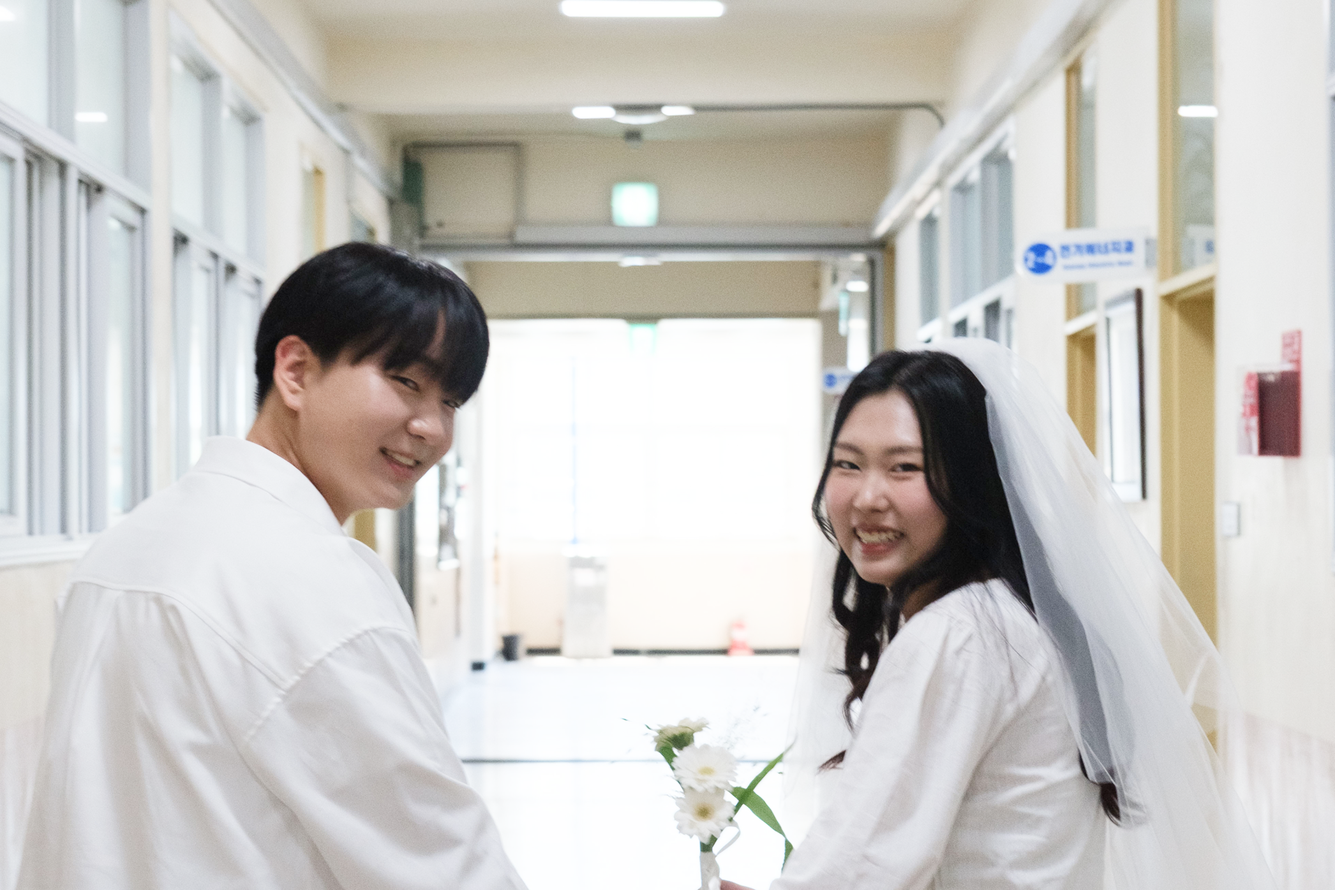
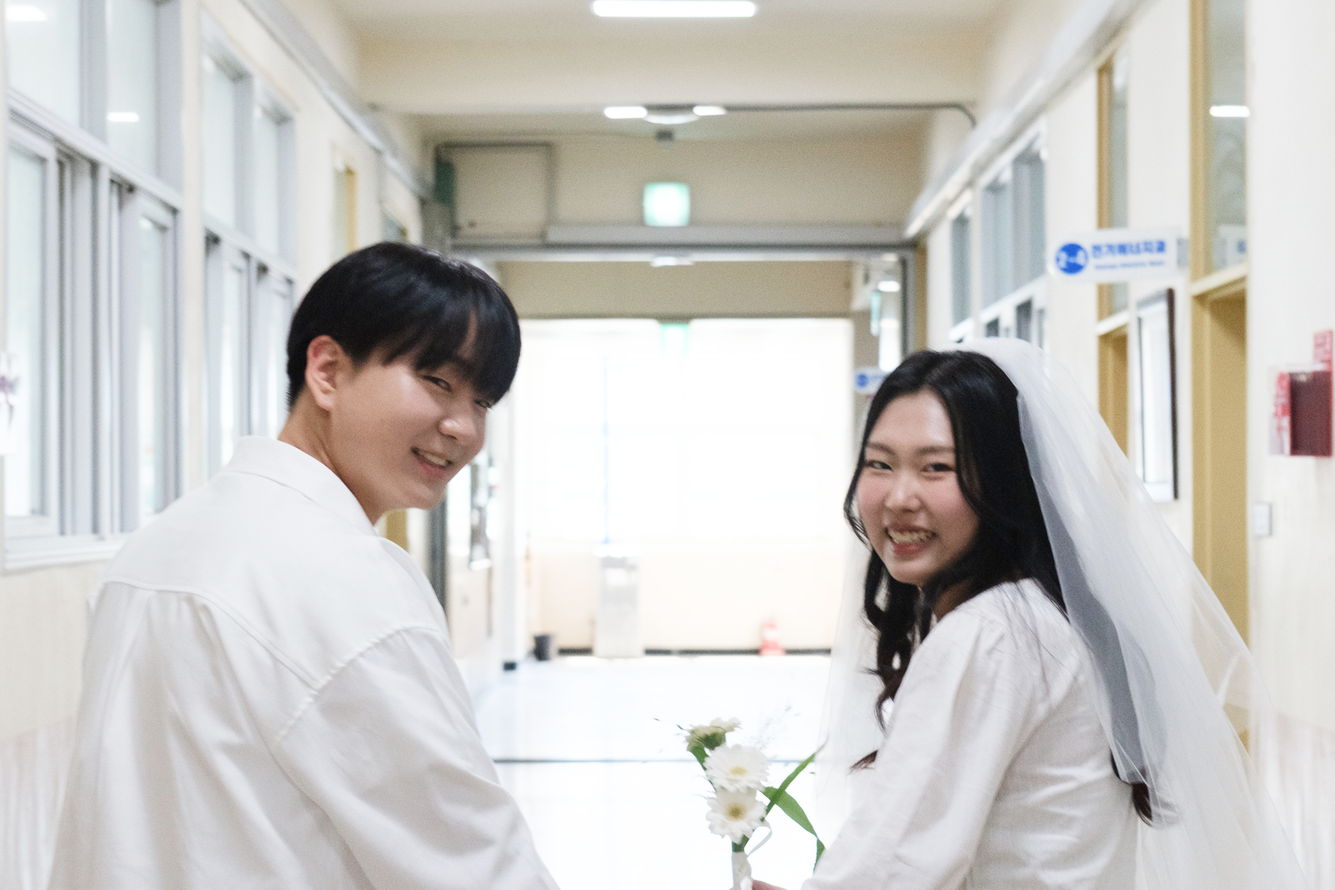
Updates

diff --git a/assets/index-D1y2Bn0O.css b/assets/index-D1y2Bn0O.css
@@ -1,0 +1,1 @@
+@font-face{font-family:TuesdayNight;src:url(/wedding/assets/TuesdayNight-BsQFEZVB.woff2)format("woff2")}@font-face{font-family:NewYork;src:url(/wedding/assets/NewYork-3l_rxtSI.woff2)format("woff2")}@font-face{font-family:Pretendard;src:url(https://cdn.jsdelivr.net/gh/projectnoonnu/pretendard@1.0/Pretendard-Thin.woff2)format("woff2");font-weight:100;font-display:swap}@font-face{font-family:Pretendard;src:url(https://cdn.jsdelivr.net/gh/projectnoonnu/pretendard@1.0/Pretendard-ExtraLight.woff2)format("woff2");font-weight:200;font-display:swap}@font-face{font-family:Pretendard;src:url(https://cdn.jsdelivr.net/gh/projectnoonnu/pretendard@1.0/Pretendard-Light.woff2)format("woff2");font-weight:300;font-display:swap}@font-face{font-family:Pretendard;src:url(https://cdn.jsdelivr.net/gh/projectnoonnu/pretendard@1.0/Pretendard-Regular.woff2)format("woff2");font-weight:400;font-display:swap}@font-face{font-family:Pretendard;src:url(https://cdn.jsdelivr.net/gh/projectnoonnu/pretendard@1.0/Pretendard-Medium.woff2)format("woff2");font-weight:500;font-display:swap}@font-face{font-family:Pretendard;src:url(https://cdn.jsdelivr.net/gh/projectnoonnu/pretendard@1.0/Pretendard-SemiBold.woff2)format("woff2");font-weight:600;font-display:swap}@font-face{font-family:Pretendard;src:url(https://cdn.jsdelivr.net/gh/projectnoonnu/pretendard@1.0/Pretendard-Bold.woff2)format("woff2");font-weight:700;font-display:swap}@font-face{font-family:Pretendard;src:url(https://cdn.jsdelivr.net/gh/projectnoonnu/pretendard@1.0/Pretendard-ExtraBold.woff2)format("woff2");font-weight:800;font-display:swap}@font-face{font-family:Pretendard;src:url(https://cdn.jsdelivr.net/gh/projectnoonnu/pretendard@1.0/Pretendard-Black.woff2)format("woff2");font-weight:900;font-display:swap}*{box-sizing:border-box;letter-spacing:-.4px;color:#333;margin:0;padding:0;font-family:Pretendard,sans-serif;font-size:16px;line-height:1.4;text-decoration:none;list-style:none}body{background-color:#fff;justify-content:center;display:flex}#root{background-color:#fbfbf9;max-width:520px;box-shadow:0 12px 40px #00000014}.content{margin-top:100px}section{background-color:#fbfbf9;flex-direction:column;justify-content:center;align-items:center;display:flex}section h2{color:#b0b0b0;margin-bottom:40px;font-size:12px;font-weight:500}.hero{height:var(--hero-height);background-position:50%;background-repeat:no-repeat;background-size:cover;position:relative;overflow:hidden}.scroll_box{background-position:bottom;background-repeat:no-repeat;background-size:100%;flex-direction:column;justify-content:center;align-items:center;width:100%;height:13%;display:flex;position:absolute;bottom:0;left:0}.scroll_box img{width:12px;height:auto}.scroll_box span{margin-top:6px;font-size:12px;font-weight:500}.scroll_indicator{flex-direction:column;align-items:center;gap:2px;animation:1.8s ease-in-out infinite scrollBounce;display:flex}@keyframes scrollBounce{0%,to{transform:translateY(0)}50%{transform:translateY(10px)}}.invitation_txt{aspect-ratio:402/481;background-position:top;background-repeat:no-repeat;background-size:100%;flex-direction:column;justify-content:center;align-items:center;gap:60px;width:100%;display:flex}.intro{text-align:center;flex-direction:column;gap:24px;display:flex}.intro p{font-weight:500;line-height:26px}.intro span{color:#8e8e8e}.name{align-items:center;gap:32px;display:flex}.name_item{flex-direction:column;justify-content:center;align-items:center;display:flex}.name_item p{font-weight:500}.name_item span{color:#8e8e8e}.name_item strong{font-size:18px;font-weight:700}.calendar{margin-top:92px}.calendar p{text-align:center}.calendar strong{font-size:18px}.calendar_wrap{color:#444;width:280px;margin:28px auto 0}.calendar_week,.calendar_date{text-align:center;grid-template-columns:repeat(7,1fr);display:grid}.week{color:#b0b0b0;padding:8px 0;font-size:14px}.date{justify-content:center;align-items:center;height:38px;display:flex;position:relative}.wedding{color:#225226;flex-direction:column;font-weight:600}.heart{position:absolute;top:-7px}.heart img{width:12px;height:12px}.countdown_wrap{flex-direction:column;display:flex}.countdown{justify-content:center;align-items:flex-end;gap:10px;margin-top:32px;display:flex}.countdown_item{flex-direction:column;align-items:center;display:flex}.label{color:#b0b0b0;margin-bottom:3px;font-size:12px}.num{color:#444;font-size:22px}.colon{color:#b0b0b0;margin-bottom:2px;font-size:22px;font-weight:300}.countdown_text{text-align:center;margin-top:14px}.gallery{margin-top:160px;padding:0 20px;position:relative}.gallery_wrap{grid-template-columns:repeat(3,minmax(0,1fr));gap:8px;display:grid}.gallery.is-collapsed:after{content:"";pointer-events:none;background:linear-gradient(#fffcf500,#fffcf5);height:100px;position:absolute;bottom:41px;left:20px;right:20px}.gallery_item{aspect-ratio:1/1.35;cursor:pointer;appearance:none;background:0 0;border:0;border-radius:6px;width:100%;padding:0;display:block;overflow:hidden}.gallery_item img{object-fit:cover;width:100%;height:100%;display:block}.gallery_more{color:#555;cursor:pointer;background:0 0;border:0;justify-content:center;align-items:center;gap:6px;margin:20px auto 0;font-size:18px;display:flex}.gallery_more img{width:14px;height:14px;display:block}.gallery_modal{z-index:9999;background:#000000d1;justify-content:center;align-items:center;width:100%;max-width:520px;display:flex;position:fixed;inset:0;transform:translate(-50%);left:50%!important}.gallery_modal_content{justify-content:center;align-items:center;width:calc(100% - 100px);max-width:520px;max-height:80vh;display:flex}.gallery_modal_content img{object-fit:contain;width:100%;max-height:80vh;display:block}.gallery_close{cursor:pointer;background:0 0;border:0;width:28px;height:28px;padding:0;position:absolute;top:20px;right:20px}.gallery_close img{width:100%;height:100%;display:block}.gallery_nav{cursor:pointer;background:0 0;border:0;width:28px;height:28px;padding:0;position:absolute;top:50%;transform:translateY(-50%)}.gallery_prev{left:12px}.gallery_next{right:12px}.gallery_nav img{width:100%;height:100%;display:block}.location{margin-top:160px}.location_wrap{background-position:top;background-repeat:no-repeat;background-size:100%;flex-direction:column;justify-content:flex-start;align-items:center;width:100%;padding:40px;display:flex}.map_wrap{background:#f3f0ea;border-radius:8px;width:100%;height:160px;margin-top:-16px;overflow:hidden}.kakao_map{width:100%;height:100%;display:block}.location_info{text-align:left;width:100%;margin-top:20px}.location_info_title{margin-bottom:8px;font-weight:600}.location_info_desc{word-break:keep-all;color:#444;margin-bottom:12px;font-size:14px}.location_btn_wrap{grid-template-columns:repeat(3,1fr);gap:8px;margin-top:8px;display:grid}.location_btn{cursor:pointer;background-color:#fff;border:.2px solid #e7e7e7;border-radius:8px;justify-content:center;align-items:center;gap:4px;padding:8px 0;font-size:14px;display:flex}.location_btn img{width:12px;height:12px}.location_line{background-color:#d6d6d6;width:100%;height:.5px;margin:16px 0}.gift{margin-top:160px;padding:0 20px}.gift p{text-align:center}.account{flex-direction:column;width:100%;margin-top:32px;display:flex}.man_account{box-sizing:border-box;background-color:#eff5f8;border:.2px solid #e7e7e7;border-radius:8px;width:100%;padding:12px 20px}.woman_account{box-sizing:border-box;background-color:#fff7f3;border:.2px solid #e7e7e7;border-radius:8px;width:100%;margin-top:12px;padding:12px 20px}.account_title{cursor:pointer;text-align:left;width:100%;font:inherit;color:inherit;background:0 0;border:none;justify-content:space-between;align-items:center;padding:0;display:flex}.account_title img{flex-shrink:0;width:16px;height:16px;transition:transform .3s}.account_content{opacity:0;max-height:0;transition:max-height .35s,opacity .25s;overflow:hidden}.account_content.open{opacity:1;max-height:120px}.account_content_inner{padding-top:12px}.account_line{background-color:#d6d6d6;width:100%;height:.5px;margin-bottom:12px}.account_info{justify-content:space-between;align-items:center;display:flex}.account_number,.account_name{gap:4px;display:flex}.account_btn_wrap{grid-template-columns:repeat(2,1fr);gap:8px;margin-top:12px;display:grid}.account_btn{cursor:pointer;background-color:#fff;border:.2px solid #e7e7e7;border-radius:8px;justify-content:center;align-items:center;gap:4px;padding:8px 0;font-size:14px;display:flex}.kakaopay{background-color:#fee500}.account_btn img{width:12px;height:12px}.contact{margin-top:160px;padding:0 40px}.contact_wrap{justify-content:center;align-items:center;gap:20px;display:flex}.contact_item{flex-direction:column;justify-content:center;align-items:center;gap:12px;display:flex}.contact_item img{border-radius:50%;width:100%}.contact_btn{cursor:pointer;border:.2px solid #e7e7e7;border-radius:8px;justify-content:center;align-items:center;gap:4px;width:100%;padding:8px 0;font-size:14px;display:flex}.man_contact{background-color:#eff5f8}.woman_contact{background-color:#fff7f3}.contact_btn img{width:12px;height:12px}.footer{margin-top:160px}.share_wrap{justify-content:center;align-items:center;gap:28px;width:100%;display:flex}.share_btn{cursor:pointer;background-color:#0000;border:none;justify-content:center;align-items:center;gap:4px;padding:8px 0;font-size:14px;display:flex}.share_btn img{width:12px;height:12px}.share_line{background-color:#d6d6d6;width:.5px;height:14px}.last_comment{color:#fff;background-position:top;background-repeat:no-repeat;background-size:cover;justify-content:center;align-items:center;width:100%;height:165px;margin-top:40px;font-size:14px;display:flex}

diff --git a/index.html b/index.html
@@ -17,8 +17,8 @@
       <meta name="twitter:image" content="https://kimdust.me/wedding/wedding-preview.png" />
     <script src="https://developers.kakao.com/sdk/js/kakao.js"></script>
     <script src="https://dapi.kakao.com/v2/maps/sdk.js?appkey=58cda7a9780f5e890838bbad83141652&autoload=false"></script>
-    <script type="module" crossorigin src="/wedding/assets/index-BcZwisBN.js"></script>
-    <link rel="stylesheet" crossorigin href="/wedding/assets/index-BQXVmxQI.css">
+    <script type="module" crossorigin src="/wedding/assets/index-D89SABuw.js"></script>
+    <link rel="stylesheet" crossorigin href="/wedding/assets/index-D1y2Bn0O.css">
   </head>
   <body>
     <div id="root"></div>
